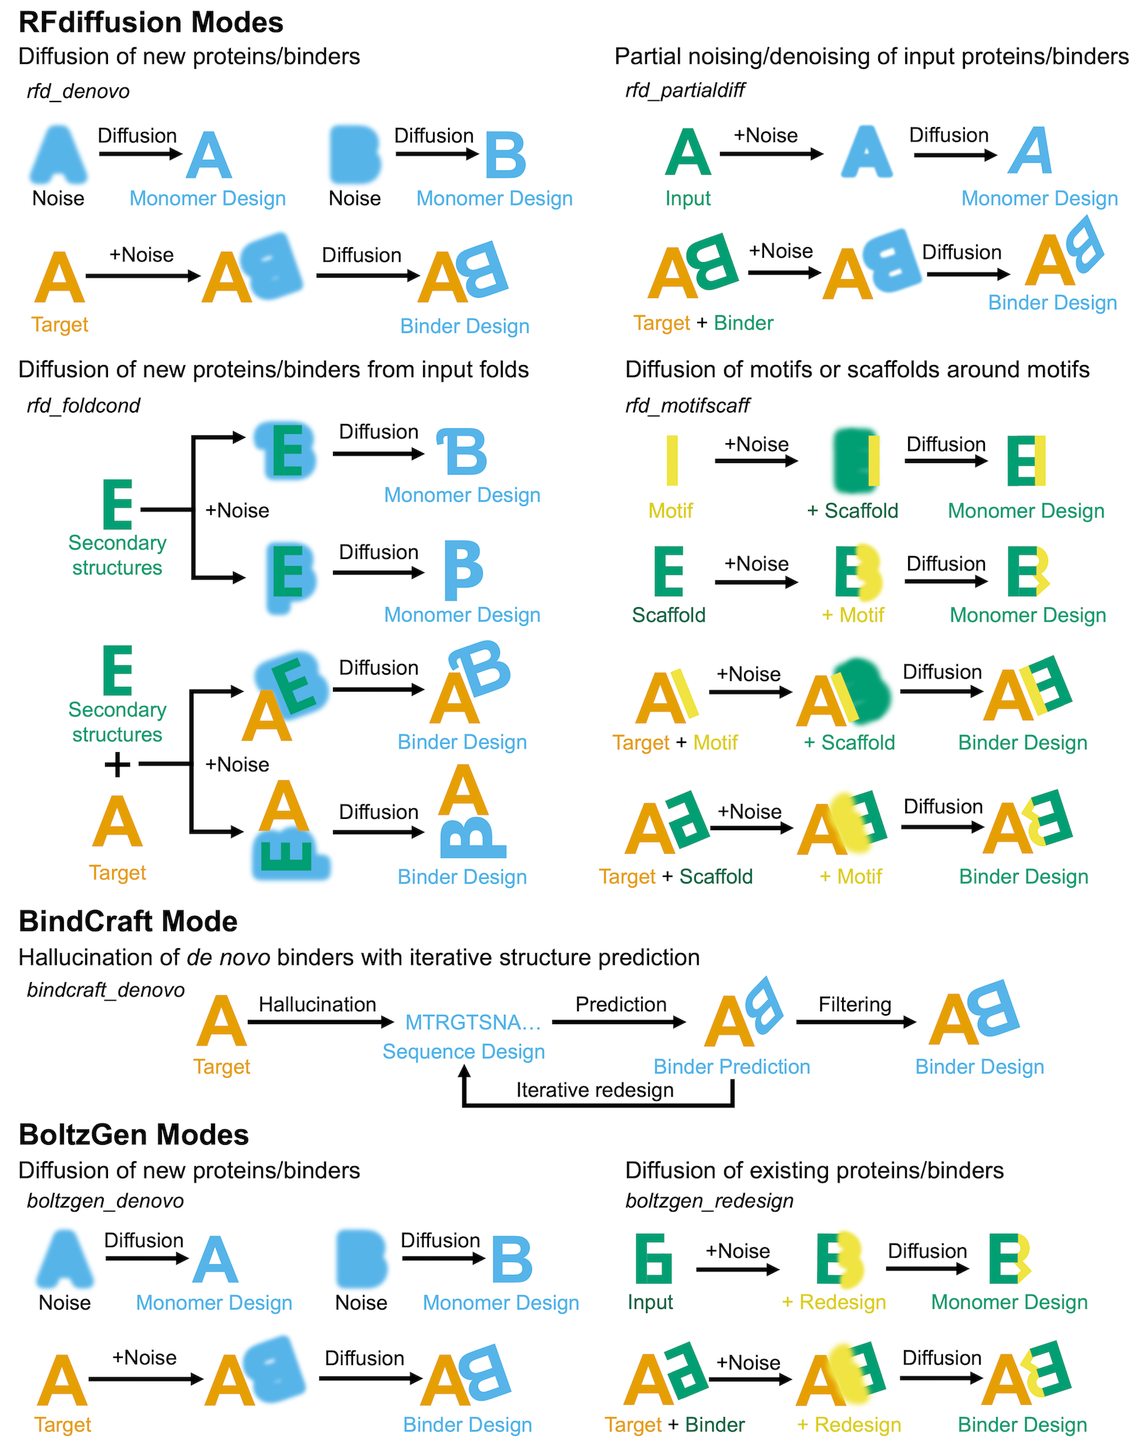
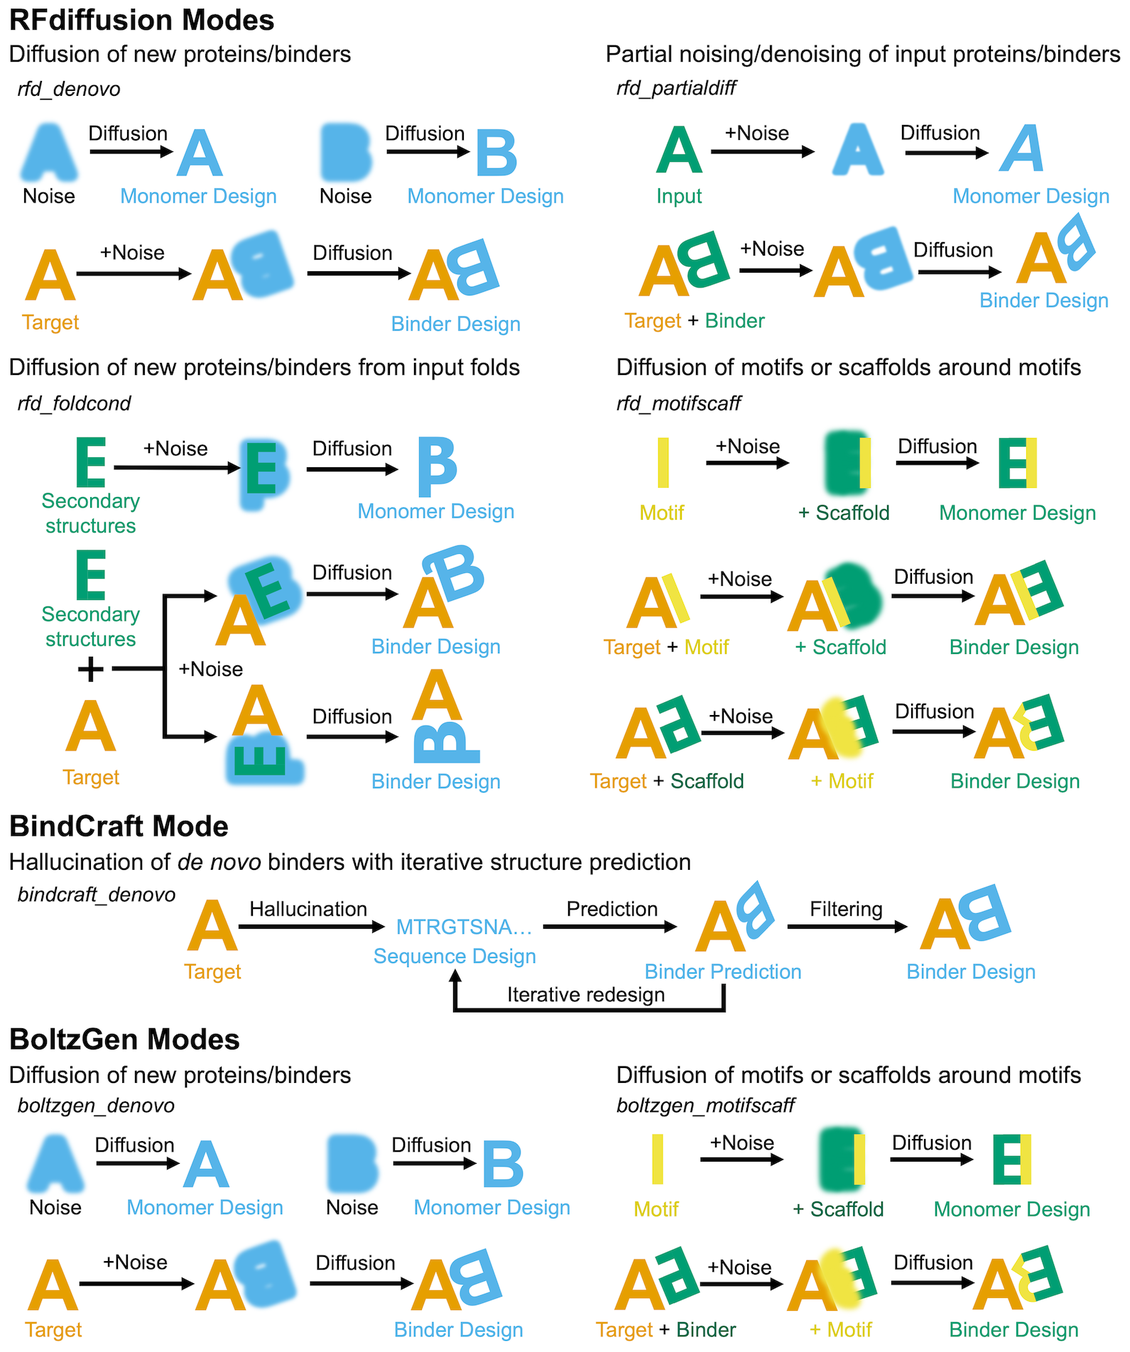
Update docs

Changed region(s): [[0.0, 0.0, 0.9855, 0.9916]]

diff --git a/README.md b/README.md
@@ -35,7 +35,7 @@ If you find ProteinDJ or BindSweeper useful in your research, please [cite us](h
 - [Metrics and Metadata](#metrics)
 - [BindSweeper](#bindsweeper)
 - [Appendices](#append)
-  - [Known limitations and planned improvements](#limitations)
+  - [Known limitations](#limitations)
   - [Seqera Support](#seqera)
   - [Troubleshooting and common errors](#errors)
   - [Data used for benchmarking](#append-bench)
@@ -54,7 +54,7 @@ git clone https://github.com/PapenfussLab/proteindj
 cd proteindj
 ```
 
-Next, download the models for AF2, Boltz, ProteinMPNN and RFdiffusion (~11 GB) using the download script . This may take a while depending on your internet connection. Note that this only needs to be done once on a cluster as long as the files and containers are in a location that can be accessed by all users (see [Installation Guide](docs/installation.md) for more details):
+Next, download the models for AF2, Boltz, RFdiffusion etc. (~16 GB) using the download script . This may take a while depending on your internet connection. Note that this only needs to be done once on a cluster as long as the files and containers are in a location that can be accessed by all users (see [Installation Guide](docs/installation.md) for more details):
 
 ```
 bash scripts/download_models.sh
@@ -69,7 +69,7 @@ The ProteinDJ consists of four stages:
 1. Fold Design - Using RFdiffusion, BindCraft, or BoltzGen
 2. Sequence Design - Using ProteinMPNN or Full-Atom MPNN
 3. Structure Prediction - Using AlphaFold2 Initial Guess, Boltz-2, or both sequentially
-4. Analysis and Reporting - Using PDBFixer/OpenMM, arpeggia, PRODIGY, and BioPython
+4. Analysis and Reporting - Using a combination of tools including PDBFixer/OpenMM, arpeggia, PRODIGY, and BioPython
 
 <img src="img/pipelineoverview.png" height="200">
 
@@ -89,16 +89,19 @@ All the settings and parameters for ProteinDJ can be found in the `nextflow.conf
 
 | Parameter         | Example Value      | Description                                                                                                                                                                                     |
 | ----------------- | ------------------ | ----------------------------------------------------------------------------------------------------------------------------------------------------------------------------------------------- |
-| `design_mode`        | `'rfd_denovo'` | Pipeline mode. Choose from 'rfd_denovo', 'rfd_foldcond', 'rfd_motifscaff', 'rfd_partialdiff' (each automatically runs as monomer or binder design depending on whether `input_pdb` is provided), 'bindcraft_denovo', 'boltzgen_denovo', or 'boltzgen_motifscaff'. |
-| `num_designs` | `8`                | Number of designs to generate using RFdiffusion or Bindcraft.                                                                                                                                                |
+| `design_mode`        | `'rfd_denovo'` | Pipeline mode. Choose from 'rfd_denovo', 'rfd_foldcond', 'rfd_motifscaff', 'rfd_partialdiff', 'bindcraft_denovo', 'boltzgen_denovo', or 'boltzgen_motifscaff'. Each automatically runs as monomer or binder design depending on inputs. |
+| `num_designs` | `8`                | Number of designs to generate using BindCraft, BoltzGen, or RFdiffusion.                                                                                                                                                |
 | `seqs_per_design` | `8`                | Number of sequences to generate per design.                                                                                                                                         |
 | `out_dir`         | `'./pdj_results'`  | Output directory for results. Existing results in this directory will be overwritten.                                                                                                           |
 
-The [RFdiffusion GitHub](https://github.com/RosettaCommons/RFdiffusion/) has a comprehensive explanation of the different parameters available for RFdiffusion with examples. Note that we have externalised many RFdiffusion parameters to Nextflow and added the prefix 'rfd' e.g. `num_designs`, `input_pdb` etc. You can find a detailed description of all ProteinDJ parameters [here](docs/parameters.md).
+If a parameter has a prefix, it indicates that it is specific to an underlying program e.g. 'bg_' for BoltzGen. Other parameters are shared by multiple programs `input_pdb`, `hotspot_residues` etc. You can find a detailed description of all ProteinDJ parameters [here](docs/parameters.md).
 
-To launch a design campaign, simply run this command from the root of the `proteindj` repository:
+To launch a design campaign, launch the pipeline with `nextflow run main.nf` command from the root of the `proteindj` repository followed by the ProteinDJ parameters:
 
-`nextflow run main.nf`
+```
+# Example monomer design run
+nextflow run main.nf --design_mode boltzgen_denovo --num_designs 2 --seqs_per_design 1 --design_length 50 --out_dir pdj_monomer_example
+```
 
 This will launch the nextflow pipeline and show you progress in your terminal window. If you are running this over an ssh connection, you might want to use screen or tmux to avoid cancelling the process upon disconnect.
 
@@ -187,7 +190,7 @@ We recommend disabling other filters for small-scale and pilot experiments, and 
 - Severe clashes (clashes detected between C-alpha atoms)
 - Insufficient contact between binder and target (less than three residues contacting the target)
 
-If a design fails to meet these criteria, BindCraft will generate a new design until it finds one that passes. This can lead to long run times compared to RFdiffusion but tends to give binder designs that are more likely to succeed in the subsequent Structure Prediction stage.
+If a design fails to meet these criteria, BindCraft will generate a new design until it finds one that passes. This can lead to long run times compared to BoltzGen/RFdiffusion but tends to give binder designs that are more likely to succeed in the subsequent Structure Prediction stage.
 We have prepared a [Filtering Guide](docs/parameters.md/#filtering-parameters) on all the filters available in ProteinDJ with recommended values for each.
 
 ## Metrics and metadata <a name="metrics"></a>
@@ -202,7 +205,7 @@ BindSweeper is a python-based tool that can launch multiple instances of Protein
 
 ## Appendices <a name="append"></a>
 
-### Known limitations and planned improvements <a name="limitations"></a>
+### Known limitations <a name="limitations"></a>
 
 - Ligands / non-natural amino acids (e.g. PTMs) are not compatible with ProteinDJ
 
@@ -212,8 +215,6 @@ We have designed ProteinDJ to be compatible with the [Seqera platform](https://s
 
 ### Troubleshooting and common errors <a name="errors"></a>
 
-`AssertionError: ('B', 134) is not in pdb file!` - A mismatch between your contigs and the input PDB file. Likely due to a chain break or an incorrect chain ID.
-
 `KeyError: 'P1L'` - A non-standard amino acid code (e.g. P1L) is present in your input PDB and included in contigs. RFdiffusion only takes natural amino acids (i.e. 'ALA','ARG','ASN','ASP','CYS','GLN','GLU','GLY','HIS','ILE','LEU','LYS','MET','PHE','PRO','SER','THR','TRP','TYR','VAL') and unknown or masked amino acids ('UNK','MAS').
 
 `Unknown variable 'metadata_ch_fold'` - We are using topic channels for metadata, and this feature is only available in Nextflow v24.04 and above. This error occurs with earlier versions of Nextflow.
@@ -222,31 +223,27 @@ We have designed ProteinDJ to be compatible with the [Seqera platform](https://s
 
 We used five structures for testing and benchmarking our pipeline.
 
-| Protein           | PDB ID | Filename       | Contigs                                                | Hotspots           |
+| Protein           | PDB ID | Filename       | Domain boundaries                                                | Hotspots           |
 | ----------------- | ------ | -------------- | ------------------------------------------------------ | ------------------ |
-| Influenza A H1 HA | 5VLI   | 5vli_ha.pdb    | [A4-53/A79-83/A110-114/A261-325/0 B501-568/B580-670/0] | [B521, B545, B552] |
-| IL-7Rα            | 3DI3   | 3di3_il7ra.pdb | [B17-209/0]                                            | [B58, B80, B139]   |
-| InsR              | 4ZXB   | 4zxb_ir.pdb    | [E6-155/0]                                             | [E64, E88, E96]    |
-| PD-L1             | 5O45   | 5o45_pd-l1.pdb | [A17-131/0]                                            | [A56, A115, A123]  |
-| TrkA              | 1WWW   | 1www_trka.pdb  | [X282-382/0]                                           | [X294, X296, X333] |
+| Influenza A H1 HA | 5VLI   | 5vli_ha.pdb    | A4-53,A79-83,A110-114,A261-325,B501-568,B580-670 | B521,B545,B552 |
+| IL-7Rα            | 3DI3   | 3di3_il7ra.pdb | B17-209                                            | B58,B80,B139   |
+| InsR              | 4ZXB   | 4zxb_ir.pdb    | E6-150 |                                             E64,E88,E96    |
+| PD-L1             | 5O45   | 5o45_pd-l1.pdb | A17-131                                            | A56,A115,A123  |
+| TrkA              | 1WWW   | 1www_trka.pdb  | X282-382                                           | X294,X296,X333 |
 
 ### Citations for software packages used in ProteinDJ <a name="citations"></a>
 
 ProteinDJ - Silke, D., Iskander, J., Pan, J., Thompson, A.P., Papenfuss, A.T., Lucet, I.S., Hardy, J.M. ProteinDJ: a high-performance and modular protein design pipeline. Prot Sci (2026). https://doi.org/10.1002/pro.70464
 
+AlphaFold2 - Jumper, J., Evans, R., Pritzel, A. et al. Highly accurate protein structure prediction with AlphaFold. Nature 596, 583–589 (2021). https://doi.org/10.1038/s41586-021-03819-2
+
 AlphaFold2 Initial Guess and ProteinMPNN-FastRelax - Bennett, N.R., Coventry, B., Goreshnik, I. et al. Improving de novo protein binder design with deep learning. Nat Commun 14, 2625 (2023). https://doi.org/10.1038/s41467-023-38328-5
 
-AlphaFold2 - Jumper, J., Evans, R., Pritzel, A. et al. Highly accurate protein structure prediction with AlphaFold. Nature 596, 583–589 (2021). https://doi.org/10.1038/s41586-021-03819-2
+Arpeggia - Zhou, Y. Arpeggia: calculation of interatomic interactions in molecular structures. https://github.com/y1zhou/arpeggia
 
 BindCraft - Pacesa, M., Nickel, L., Schellhaas, C. et al. One-shot design of functional protein binders with BindCraft. Nature 646, 483-492 (2025). https://doi.org/10.1038/s41586-025-09429-6
 
 BioPython - Cock, P. J., Antao, T. et al. Biopython: freely available Python tools for computational molecular biology and bioinformatics. Bioinformatics 25, 1422-1423, (2009). https://doi.org/10.1093/bioinformatics/btp163
-
-Arpeggia - Zhou, Y. Arpeggia: calculation of interatomic interactions in molecular structures. https://github.com/y1zhou/arpeggia
-
-OpenMM and PDBFixer - Eastman, P., Swails, J., Chodera, J.D. et al. OpenMM 7: Rapid development of high performance algorithms for molecular dynamics. PLOS Comput Biol 13(7), e1005659 (2017). https://doi.org/10.1371/journal.pcbi.1005659
-
-PRODIGY - Xue, L.C., Rodrigues, J.P., Kastritis, P.L., Bonvin, A.M.J.J., Vangone, A. PRODIGY: a web server for predicting the binding affinity of protein-protein complexes. Bioinformatics 32(23), 3676-3678 (2016). https://doi.org/10.1093/bioinformatics/btw514
 
 Boltz-2 - Wohlwend, J., et al. Boltz-2 Democratizing Biomolecular Interaction Modeling, bioRxiv 2024.11.19.624167 (2024). https://doi.org/10.1101/2024.11.19.624167
 
@@ -254,8 +251,11 @@ Full-Atom MPNN - Shuai, R.W., et al. Sidechain conditioning and modeling for ful
 
 HyperMPNN - Ertelt, M., Schlegel, P., Beining, M. et al. HyperMPNN-A general strategy to design thermostable proteins learned from hyperthermophiles. bioRxiv (2024) https://doi.org/10.1101/2024.11.26.625397
 
-RFdiffusion - Watson, J.L., Juergens, D., Bennett, N.R. et al. De novo design of protein structure and function with RFdiffusion. Nature 620, 1089–1100 (2023). https://doi.org/10.1038/s41586-023-06415-8
+iPSAE score scripts - Digital Biotechnology Lab. (2025). Overath, M. D., Rygaard, A., Jacobsen, C. P., Brasas, V., Morell, O., Sormanni, P., & Jenkins, T. P. (2025). Predicting Experimental Success in De Novo Binder Design: A Meta-Analysis of 3,766 Experimentally Characterised Binders. bioRxiv. https://doi.org/10.1101/2025.08.14.670059v1
 
+OpenMM and PDBFixer - Eastman, P., Swails, J., Chodera, J.D. et al. OpenMM 7: Rapid development of high performance algorithms for molecular dynamics. PLOS Comput Biol 13(7), e1005659 (2017). https://doi.org/10.1371/journal.pcbi.1005659
+
+PRODIGY - Xue, L.C., Rodrigues, J.P., Kastritis, P.L., Bonvin, A.M.J.J., Vangone, A. PRODIGY: a web server for predicting the binding affinity of protein-protein complexes. Bioinformatics 32(23), 3676-3678 (2016). https://doi.org/10.1093/bioinformatics/btw514
 ProteinMPNN - Dauparas, J., et al. Robust deep learning–based protein sequence design using ProteinMPNN. Science 378, 49-56 (2022). https://doi.org/10.1126/science.add2187
 
-iPSAE score scripts - Digital Biotechnology Lab. (2025). Overath, M. D., Rygaard, A., Jacobsen, C. P., Brasas, V., Morell, O., Sormanni, P., & Jenkins, T. P. (2025). Predicting Experimental Success in De Novo Binder Design: A Meta-Analysis of 3,766 Experimentally Characterised Binders. bioRxiv. https://doi.org/10.1101/2025.08.14.670059v1
+RFdiffusion - Watson, J.L., Juergens, D., Bennett, N.R. et al. De novo design of protein structure and function with RFdiffusion. Nature 620, 1089–1100 (2023). https://doi.org/10.1038/s41586-023-06415-8

diff --git a/docs/testing.md b/docs/testing.md
@@ -10,9 +10,9 @@ ProteinDJ has three complementary test suites, from fastest/most granular to slo
 | nf-test unit | `tests/unit` | seconds | Groovy helper classes/functions (`lib/*.groovy`) - no containers, no GPU |
 | nf-test module (CPU) | `tests/modules` (tag `cpu`) | ~5-30s each | Real `python_tools.sif` container process wiring/logic, no GPU |
 | nf-test module (GPU) | `tests/modules` (tag `gpu`) | ~1-10 min each | Real GPU processes (RFdiffusion, ProteinMPNN, FAMPNN, AF2, Boltz, BindCraft, BoltzGen) |
-| `end2end_test.sh` | `scripts/end2end_test.sh` | ~40 min | Full pipeline, all 8 supported modes, on 4 A30 GPUs |
+| `end2end_test.sh` | `scripts/end2end_test.sh` | ~60 min | Full pipeline, all 13 supported modes, on 4 A30 GPUs |
 
-## Day-to-day workflow
+## Using the testing suite
 
 A [Makefile](../Makefile) at the repo root wraps the common commands:
 
@@ -32,11 +32,11 @@ nf-test test tests/modules/bindcraft.runbc.nf.test --tag gpu --profile milton
 
 ### Overview
 
-The `end2end_test.sh` script is a comprehensive testing framework for the ProteinDJ pipeline that automatically tests all supported pipeline modes and generates detailed reports. It helps ensure pipeline reliability and provides insights into the performance of different protein design modes. A full test takes ~40 minutes on 4 A30 GPUs.
+The `end2end_test.sh` script is a comprehensive testing framework for the ProteinDJ pipeline that automatically tests all supported pipeline modes and generates detailed reports. It helps ensure pipeline reliability and provides insights into the performance of different protein design modes. A full test takes an hour on 4 A30 GPUs.
 
 ### Features
 
-- ✅ **Automated Testing**: Tests all 8 pipeline modes automatically
+- ✅ **Automated Testing**: Tests all 13 pipeline modes automatically
 - 📊 **Comprehensive Reporting**: 
 
       - Generates detailed text reports
@@ -71,17 +71,21 @@ module load nextflow/24.10.5
 The script tests the following ProteinDJ pipeline profiles:
 
 #### Monomer Profiles
-- `rfd_denovo_monomer` - De novo protein design
-- `rfd_foldcond_monomer` - Conditional folding design
-- `rfd_motifscaff_monomer` - Motif-based scaffolding
-- `rfd_partialdiff_monomer` - Partial diffusion design
+- `rfd_denovo_monomer` - De novo protein design (RFdiffusion)
+- `rfd_foldcond_monomer` - Conditional folding design (RFdiffusion)
+- `rfd_motifscaff_monomer` - Motif-based scaffolding (RFdiffusion)
+- `rfd_partialdiff_monomer` - Partial diffusion design (RFdiffusion)
+- `boltzgen_denovo_monomer` - De novo protein design (BoltzGen)
+- `boltzgen_motifscaff_monomer` - Motif-based scaffolding (BoltzGen)
 
 #### Binder Profiles
 - `bindcraft_denovo` - De novo binder design (BindCraft)
 - `rfd_denovo_binder` - De novo binder design (RFdiffusion)
-- `rfd_foldcond_binder` - Conditional binder folding
-- `rfd_motifscaff_binder` - Binder motif scaffolding
-- `rfd_partialdiff_binder` - Partial diffusion binder design
+- `rfd_foldcond_binder` - Conditional binder folding (RFdiffusion)
+- `rfd_motifscaff_binder` - Binder motif scaffolding (RFdiffusion)
+- `rfd_partialdiff_binder` - Partial diffusion binder design (RFdiffusion)
+- `boltzgen_denovo_binder` - De novo binder design (BoltzGen)
+- `boltzgen_motifscaff_binder` - Binder motif scaffolding (BoltzGen)
 
 ### Command Line Arguments
 

diff --git a/docs/installation.md b/docs/installation.md
@@ -19,7 +19,7 @@ Before starting, ensure you have:
 
 | Component   | Minimum                    | Recommended     |
 | ----------- | -------------------------- | --------------- |
-| **Storage** | 60 GB                      | 100 GB          |
+| **Storage** | 70 GB                      | 100 GB+         |
 | **RAM**     | 32 GB                      | 48 GB+          |
 | **GPU**     | NVIDIA GPU with 16GB+ VRAM | NVIDIA A30/A100 |
 | **CPU**     | 8 cores                    | 24+ cores       |
@@ -148,9 +148,8 @@ ProteinDJ only runs BoltzGen's design step (sequences are re-designed downstream
 ```bash
 mkdir -p models/boltzgen
 
-# These files are served from Hugging Face Hub's Xet storage backend. Plain wget/curl only
-# reach a slow single-connection compatibility bridge for Xet-backed files, so use the `hf`
-# CLI instead (fetches chunks in parallel, dramatically faster):
+# These files are served from Hugging Face Hub's Xet storage backend. Using wget/curl is
+# very slow so we recommend using the `hf` CLI instead (fetches chunks in parallel)
 pip install -U "huggingface_hub[hf_xet]"
 hf download boltzgen/boltzgen-1 boltzgen1_diverse.ckpt boltzgen1_adherence.ckpt --local-dir models/boltzgen
 hf download boltzgen/inference-data mols.zip --repo-type dataset --local-dir models/boltzgen
@@ -219,7 +218,7 @@ withLabel: 'BC' {
 
 We have provided a script for building the containers in a series of sbatch jobs (`apptainer/build_containers.sh`). You may need to tweak the SLURM parameters and enviroment settings for your cluster.
 
-> **⚠ Important:** Container building requires significant resources and may take several hours.
+> **⚠ Important:** Container building requires significant resources and may take several hours. We recommend using our pre-compiled containers unless you have reason to build your own.
 
 ### Option A: Automated Parallel Build using SLURM script
 
@@ -289,8 +288,10 @@ nano nextflow.config
 | Parameter       | Description                                 | Examples                       |
 | --------------- | ------------------------------------------- | ------------------------------ |
 | `rfd_models`    | Path to RFdiffusion models                  | `"${projectDir}/models/rfd"`   |
+| `mpnn_models`   | Path to ProteinMPNN models                  | `"${projectDir}/models/mpnn"`  |
 | `af2_models`    | Path to AlphaFold2 models                   | `"${projectDir}/models/af2"`   |
 | `boltz_models`  | Path to Boltz-2 models                      | `"${projectDir}/models/boltz"` |
+| `bg_models`     | Path to BoltzGen models                     | `"${projectDir}/models/boltzgen"` |
 | `gpu_model`     | Your GPU type                               | `'A30'`, `'V100'`, `'A100'`    |
 | `gpus`          | Number of GPUs to request                   | `1`, `2`, `4`, `8`             |
 | `cpus_per_gpu`  | Number of CPUs to request per GPU           | `8`, `12`                      |

diff --git a/docs/modes.md b/docs/modes.md
@@ -33,8 +33,6 @@ If you want to test your binder designs in the context of a larger structure or 
 
 Each of the four RFdiffusion modes (`rfd_denovo`, `rfd_foldcond`, `rfd_motifscaff`, `rfd_partialdiff`) automatically runs as **monomer design** or **binder design** depending on whether a target `input_pdb` is provided (and, where relevant, whether the input PDB describes a single chain or multiple chains). You do not need to select monomer vs. binder explicitly - ProteinDJ detects this automatically at runtime. Contigs (RFdiffusion's internal residue-range specification) are now also generated automatically for you from your `input_pdb` and/or `design_length` - you never need to write them by hand. Your input PDB should only include the target residues you actually want RFdiffusion to build against; if you have missing loops or residues in your target, remove/exclude them from the PDB first (e.g. in ChimeraX/PyMOL), the same way you would prepare an input PDB for BindCraft or BoltzGen.
 
-<img src="../img/contigs.png" width="700">
-
 ### RFdiffusion De Novo Mode (rfd_denovo) <a name="mode-rfddenovo"></a>
 
 The simplest use of RFdiffusion is to generate a monomeric protein from noise, or a binder against a target protein.
@@ -153,7 +151,7 @@ Fold conditioning guides the RFdiffusion diffusion process by providing secondar
 
 <img src="../img/monomer_foldcond.png" width="400">
 
-To run fold conditioning you need a directory containing pytorch files (`rfd_foldcond_scaffold_dir`) with secondary structure and block adjacency information for each scaffold e.g. scaffold1_ss.pt scaffold2_adj.pt. You can generate these from a pdb or directory of pdbs using `scripts/create_scaffolds.py` (note this script requires a python environment with BioPython and pytorch installed). RFdiffusion will select a random scaffold from the directory for each design during the backbone diffusion process. Here we will use a directory of assorted scaffolds in `proteindj/binderscaffolds/scaffolds_assorted`. No `input_pdb` is provided, so this runs as monomer design.
+To run fold conditioning you need a directory containing pytorch files (`rfd_foldcond_scaffold_dir`) with secondary structure and block adjacency information for each scaffold e.g. scaffold1_ss.pt scaffold2_adj.pt. You can generate these from a pdb or directory of pdbs (see [Scaffold Generation Guide](../docs/scaffolds.md)). RFdiffusion will select a random scaffold from the directory for each design during the backbone diffusion process. Here we will use a directory of assorted scaffolds in `proteindj/binderscaffolds/scaffolds_assorted`. No `input_pdb` is provided, so this runs as monomer design.
 
 ```
 rfd_foldcond_monomer {

diff --git a/docs/bindsweeper.md b/docs/bindsweeper.md
@@ -58,9 +58,9 @@ BindSweeper works by:
 bindsweeper
 ```
 
-### Running on WEHI Systems
+### Running long jobs over SSH
 
-When running BindSweeper on WEHI systems, use `screen` to prevent disconnections during long-running jobs:
+When running BindSweeper over SSH or remote connections, use `screen` to prevent disconnections during long-running jobs:
 
 1. **Start a screen session**:
    ```bash
@@ -142,7 +142,7 @@ results_config:
 4. **`rfd_partialdiff`**: Partial diffusion binder design (RFdiffusion)
 5. **`bindcraft_denovo`**: De novo binder design (FreeBindCraft)
 6. **`boltzgen_denovo`**: De novo binder design (BoltzGen)
-7. **`boltzgen_motifscaff`**: Redesign of an existing binder's architecture/sequence/structure (BoltzGen)
+7. **`boltzgen_motifscaff`**: Motif scaffolding binder design (BoltzGen)
 
 ### Parameter Types
 

diff --git a/docs/metrics.md b/docs/metrics.md
@@ -50,7 +50,7 @@ Metrics assessing the confidence of sequences generated by ProteinMPNN or FAMPNN
 | `seq_length`      | Length of the protein sequence (number of residues).                                        |
 | `seq_MW`          | Molecular weight (Daltons).                                                                 |
 | `seq_pI`          | Isoelectric point of the sequence.                                                          |
-| `sequence`        | The amino acid sequence.                                                                    |
+| `sequence`        | The amino acid sequence of the design.                                                                    |
 
 ---
 
